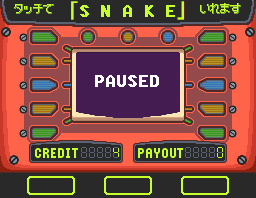
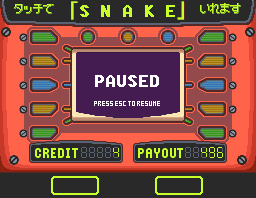
Snake speed increases with Eat(), general bug fixes: movement,pause

diff --git a/src/Game/Entities/Dynamic/Player.java b/src/Game/Entities/Dynamic/Player.java
@@ -16,13 +16,17 @@ public class Player {
 
 	public int lenght;
 	public boolean justAte;
+	public boolean justAteBad;
 	private Handler handler;
 
 	public int xCoord;
 	public int yCoord;
-	public int speed; 
+	
+	public double speed; 
 	public int steps; 
 	public int score;
+	public int move;
+	public Color snakeColor;
 
 	public int moveCounter;
 
@@ -35,10 +39,13 @@ public class Player {
 		moveCounter = 0;
 		direction= "Right";
 		justAte = false;
+		justAteBad = false;
 		lenght= 1;
 		speed = 4;
 		score=0;
 		steps = 0;
+		move = 0;
+		snakeColor = new Color(64,200,97);;
 	}
 
 	public void tick(){
@@ -51,27 +58,37 @@ public class Player {
 			moveCounter=0;
 			steps++;
 		}
-		if (steps>100) {
+		if (steps>300) {
 			handler.getWorld().apple.Good = false; // Apple becomes rotten
-		}if(handler.getKeyManager().keyJustPressed(KeyEvent.VK_UP) && direction!="Down"){
+		}
+		
+		if (move<speed) {
+			move++;
+		}
+		if(move >= speed) {
+		if(handler.getKeyManager().keyJustPressed(KeyEvent.VK_UP) && direction!="Down"){
 			direction="Up";
-		}if(handler.getKeyManager().keyJustPressed(KeyEvent.VK_DOWN) && direction!="Up"){
+			move = 0;
+		}else if(handler.getKeyManager().keyJustPressed(KeyEvent.VK_DOWN) && direction!="Up"){
 			direction="Down";
-		}if(handler.getKeyManager().keyJustPressed(KeyEvent.VK_LEFT) && direction!= "Right"){
+			move = 0;
+		}else if(handler.getKeyManager().keyJustPressed(KeyEvent.VK_LEFT) && direction!= "Right"){
 			direction="Left";
-		}if(handler.getKeyManager().keyJustPressed(KeyEvent.VK_RIGHT) && direction !="Left"){
+			move = 0;
+		}else if(handler.getKeyManager().keyJustPressed(KeyEvent.VK_RIGHT) && direction !="Left"){
 			direction="Right";
+			move = 0;
+		}
 		}if(handler.getKeyManager().keyJustPressed(KeyEvent.VK_N)){
-			handler.getWorld().body.addFirst(new Tail(x, y,handler));
+			handler.getWorld().body.addFirst(new Tail(x, y,handler)); // Adds a tail
 		}if(handler.getKeyManager().keyJustPressed(KeyEvent.VK_ADD)){
-			speed--; // Supposed to make fast
+			speed-=0.1; // increases speed
 		}if(handler.getKeyManager().keyJustPressed(KeyEvent.VK_SUBTRACT)){
-			speed++; // Supposed to make slow
+			speed+=0.1; // decreases speed
 		}if(handler.getKeyManager().keyJustPressed(KeyEvent.VK_ESCAPE)) {
 			// Command to pause
 			State.setState(handler.getGame().pauseState);	
 		}
-
 
 	}
 
@@ -121,8 +138,12 @@ public class Player {
 		handler.getWorld().playerLocation[xCoord][yCoord]=true;
 
 
-		if(handler.getWorld().appleLocation[xCoord][yCoord]){
+		if(handler.getWorld().appleLocation[xCoord][yCoord]) {
 			Eat();
+		}
+		if (steps>5) {
+			handler.getWorld().player.justAte = false;
+			handler.getWorld().player.justAteBad = false;
 		}
 
 		if(!handler.getWorld().body.isEmpty()) {
@@ -134,22 +155,31 @@ public class Player {
 	}
 
 	public void render(Graphics g, Boolean[][] playeLocation){
-		Random r = new Random();
+		
 		for (int i = 0; i < handler.getWorld().GridWidthHeightPixelCount; i++) {
 			for (int j = 0; j < handler.getWorld().GridWidthHeightPixelCount; j++) {
-
-				Color dgreen = new Color(64,200,97);
+				Random rand = new Random();
+				float G = rand.nextFloat();
+				
 				Color pinku = new Color(255,110,199);
 				g.setColor(Color.white);
-				g.setFont(new Font("Courier New", 1,20));// font of game
-				g.drawString("Score: "+this.score,340,30);// message of score
-
+				g.setFont(new Font("Courier", 1,20)); // Score Font
+				g.drawString("Score: "+this.score,340,30); // Score Display
+				
 				if(playeLocation[i][j]){
-					g.setColor(dgreen);
+					if (handler.getWorld().player.justAteBad){
+						g.setColor(new Color(G,G,G)); // Snake will appear static after eating rotten apple
+					} else if (handler.getWorld().player.justAte) {
+						g.setColor(Color.green); // Snake will turn green after eating apple
+					}
+					else {
+					g.setColor(handler.getWorld().player.snakeColor);
+					}
 					g.fillRect((i*handler.getWorld().GridPixelsize),
 							(j*handler.getWorld().GridPixelsize),
 							handler.getWorld().GridPixelsize-2,
 							handler.getWorld().GridPixelsize-2);
+					
 				}
 				if(handler.getWorld().appleLocation[i][j]) {
 					if(handler.getWorld().apple.isGood()){
@@ -172,10 +202,17 @@ public class Player {
 		Tail tail= null;
 		handler.getWorld().appleLocation[xCoord][yCoord]=false;
 		handler.getWorld().appleOnBoard=false;
+		handler.getWorld().player.justAte = true;
 		if (!handler.getWorld().apple.isGood()) {
 			shed(); // Snake will lose segment if apple is bad
+			handler.getWorld().player.justAteBad = true;
 			this.score= (int)( this.score - Math.sqrt(2*this.score+1));
+			
 		}else {
+			if (this.speed>2) {
+				this.speed-= 0.08; // Increases speed relative to (student number + 1)/100
+				System.out.println(speed);
+			}
 			this.score= (int)( this.score + Math.sqrt(2*this.score+1));
 			switch (direction){
 			case "Left":

diff --git a/src/Game/GameStates/PauseState.java b/src/Game/GameStates/PauseState.java
@@ -20,17 +20,12 @@ public class PauseState extends State {
         uiManager = new UIManager(handler);
         handler.getMouseManager().setUimanager(uiManager);
 
-        uiManager.addObjects(new UIImageButton(100, 718, 120, 64, Images.Resume, () -> {
-            handler.getMouseManager().setUimanager(null);
-            State.setState(handler.getGame().gameState);
-        }));
-
-        uiManager.addObjects(new UIImageButton(336, 718, 128, 64, Images.Options, () -> {
+        uiManager.addObjects(new UIImageButton(174, 720, 120, 56, Images.Options, () -> {
             handler.getMouseManager().setUimanager(null);
             State.setState(handler.getGame().menuState);
         }));
 
-        uiManager.addObjects(new UIImageButton(576, 718, 128, 64, Images.BTitle, () -> {
+        uiManager.addObjects(new UIImageButton(500, 720, 120, 56, Images.BTitle, () -> {
             handler.getMouseManager().setUimanager(null);
             State.setState(handler.getGame().menuState);
         }));

diff --git a/src/Game/Entities/Static/Apple.java b/src/Game/Entities/Static/Apple.java
@@ -1,7 +1,5 @@
 package Game.Entities.Static;
 
-
-import Game.Entities.Dynamic.Player;
 import Main.Handler;
 
 /**
@@ -18,12 +16,11 @@ public class Apple {
     public boolean isGood() {
     		return Good;
     	}
-    public Apple(Handler handler,int x, int y, boolean good){
+    public Apple(Handler handler,int x, int y, boolean good, boolean star){
         this.handler=handler;
         this.xCoord=x;
         this.yCoord=y;
         this.Good=good;
     }
-
 
 }

diff --git a/src/Worlds/WorldOne.java b/src/Worlds/WorldOne.java
@@ -39,9 +39,9 @@ public class WorldOne extends WorldBase{
                 }
             }while(!goodCoordinates);
 
-            apple = new Apple(handler,appleX,appley,true);
+            apple = new Apple(handler,appleX,appley,true,false);
             appleLocation[appleX][appley]=true;
-            // Set apple.good = false when x number of "steps" occur ***
+            
         }
     }
 

diff --git a/src/Game/GameStates/MenuState.java b/src/Game/GameStates/MenuState.java
@@ -21,7 +21,6 @@ public class MenuState extends State {
         uiManager = new UIManager(handler);
         handler.getMouseManager().setUimanager(uiManager);
 
-
         uiManager.addObjects(new UIImageButton(handler.getWidth()/2-64, handler.getHeight()/2+324, 128, 48, Images.butstart, new ClickListlener() {
             @Override
             public void onClick() {

diff --git a/src/Worlds/WorldBase.java b/src/Worlds/WorldBase.java
@@ -32,7 +32,6 @@ public abstract class WorldBase {
     public Apple apple;
     public Boolean[][] appleLocation;
 
-
     public Boolean[][] playerLocation;
 
     public LinkedList<Tail> body = new LinkedList<>();
@@ -42,6 +41,7 @@ public abstract class WorldBase {
         this.handler = handler;
 
         appleOnBoard = false;
+
 
 
     }
